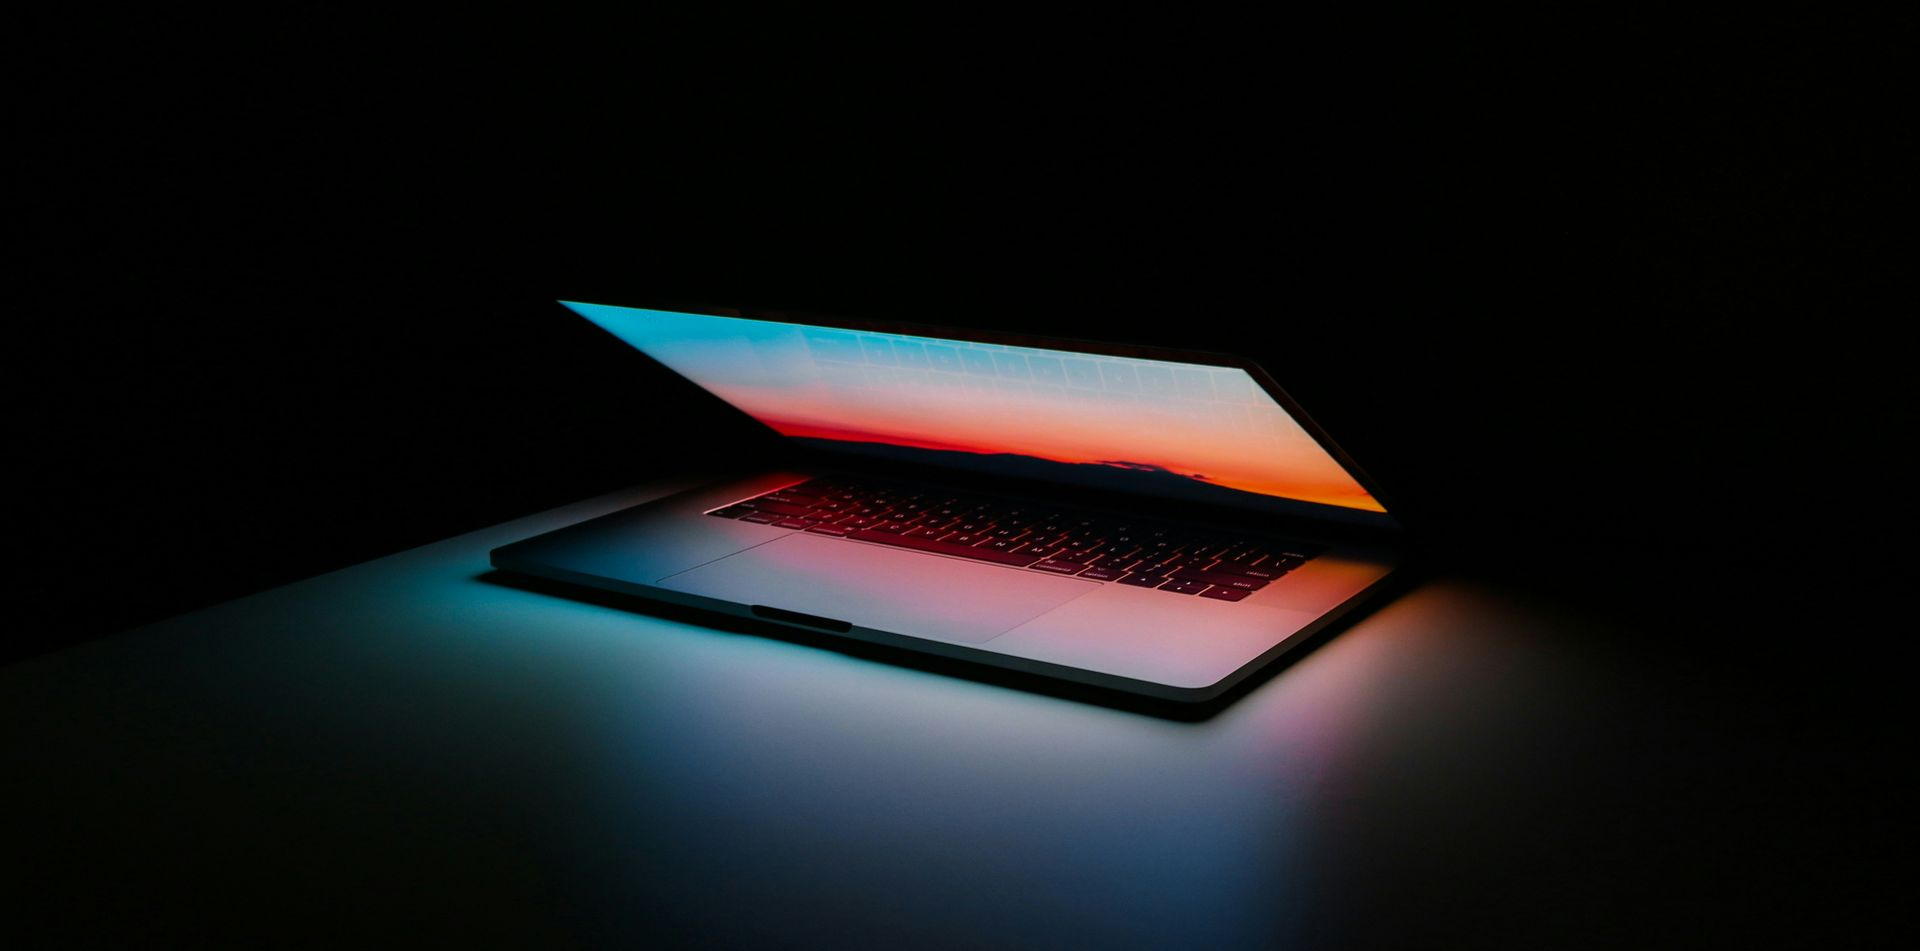
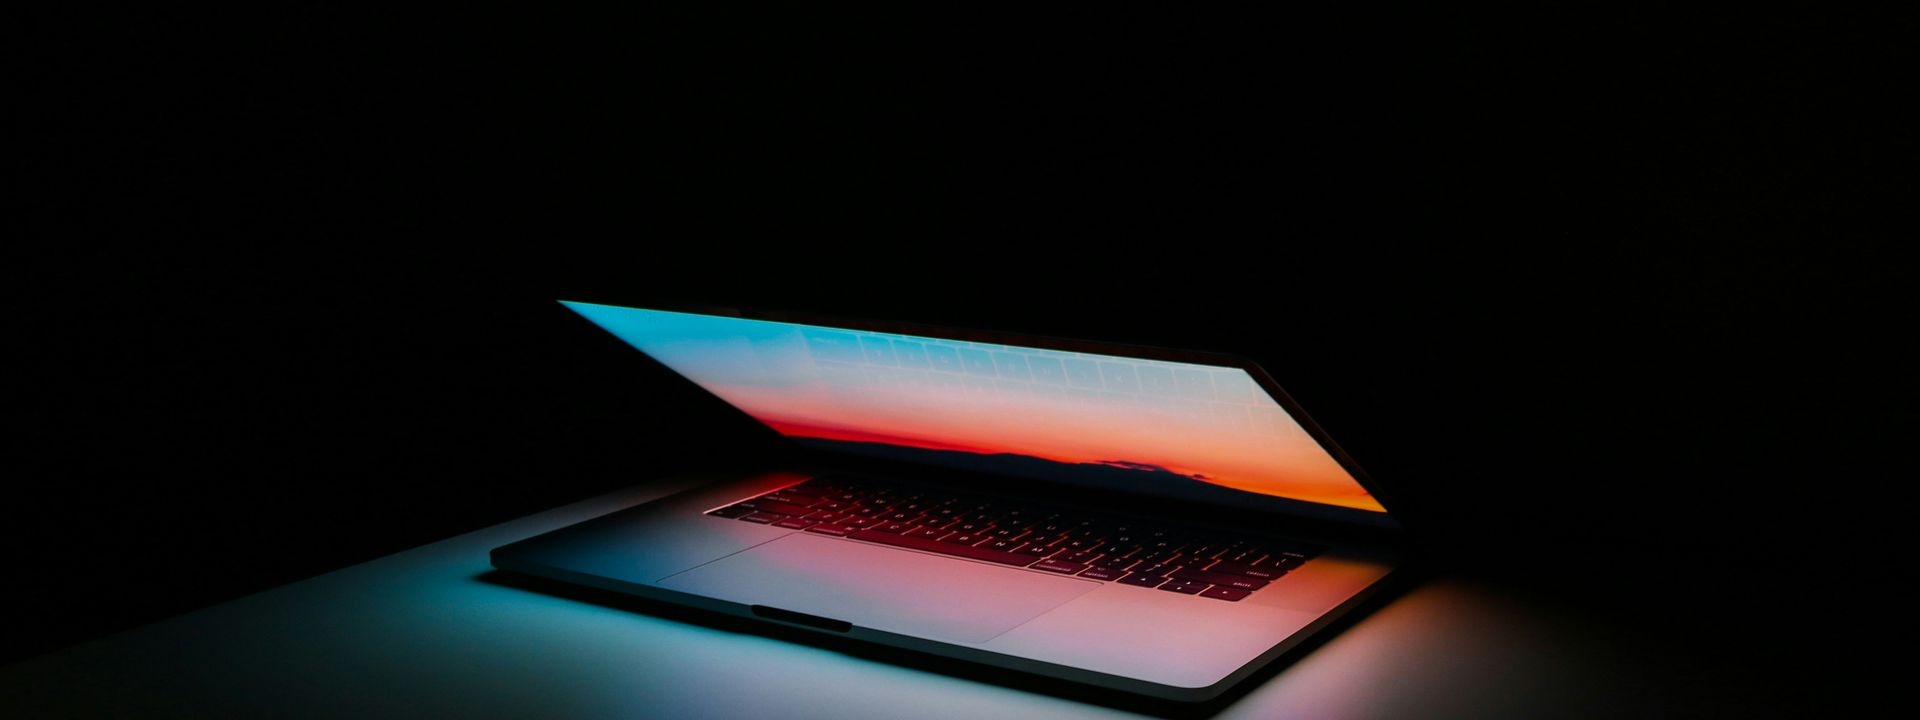
fix(home): サービスカード画像が枠全体を埋めるよう picture を block 化
問題:
PRODUCTS カードで画像が card の上部のみに表示され、下部に黒帯が出る
状態だった (デスクトップ・モバイル両方)。

原因:
.home-service-card-bg 内の <picture> 要素を display:block + 100% に
指定していなかったため、picture が default inline (auto height) のまま。
<img> の height:100% は picture の auto height を参照→無効化され、
画像が natural size でレンダリング。
例: モバイル 768x288 picture が auto height のため画像は 288px しか
埋まらず、それ以上は card bg (#0A0A0C) の黒塗りが見えていた。

Hero photo の CSS では picture も block+100% を明示していたので OK
だったが、home-service-card-bg のみ抜けていた。

修正:
- .home-service-card-bg picture に display: block, width/height 100% 追加
- card 背景色を #0A0A0C (near-black) に変更し、万一の隙間でも目立たないよう
- Overlay 下半分を完全透明にして画像 content をクリアに見せる
- モバイル zoom を 1.2 に緩めて適度な拡大

Products Hero 画像:
- さらに tight crop (上 12% + 下 35% 削除、4846x1819、aspect 2.66)
- MacBook + 鍵盤グロー中心、明るいテーブル反射部分は完全除去

diff --git a/assets/css/style.css b/assets/css/style.css
@@ -883,9 +883,8 @@ a:hover {
   display: flex;
   flex-direction: column;
   overflow: hidden;
-  min-height: clamp(220px, 28vw, 300px);
   color: var(--color-text-light);
-  background-color: var(--color-bg-deep);
+  background-color: #0A0A0C;
 }
 
 .home-service-card-bg {
@@ -893,6 +892,12 @@ a:hover {
   inset: 0;
   z-index: 0;
   overflow: hidden;
+}
+
+.home-service-card-bg picture {
+  display: block;
+  width: 100%;
+  height: 100%;
 }
 
 .home-service-card-bg img {
@@ -913,19 +918,31 @@ a:hover {
   z-index: 1;
   background: linear-gradient(
     180deg,
-    rgba(0, 0, 0, 0.60) 0%,
-    rgba(0, 0, 0, 0.35) 50%,
-    rgba(0, 0, 0, 0.12) 100%
+    rgba(0, 0, 0, 0.65) 0%,
+    rgba(0, 0, 0, 0.35) 35%,
+    rgba(0, 0, 0, 0) 65%,
+    rgba(0, 0, 0, 0) 100%
   );
 }
 
 .home-service-card-body {
   position: relative;
   z-index: 2;
-  padding: clamp(28px, 4vw, 44px) var(--space-lg) var(--space-lg);
+  padding: var(--space-md) var(--space-lg);
   display: flex;
   flex-direction: column;
   flex: 1;
+}
+
+/* モバイル: 軽い zoom で画像を枠内いっぱいに見せる */
+@media (max-width: 768px) {
+  .home-service-card-bg img {
+    transform: scale(1.2);
+    transform-origin: center;
+  }
+  .home-service-card:hover .home-service-card-bg img {
+    transform: scale(1.2);
+  }
 }
 
 .home-service-card-body .section-label {